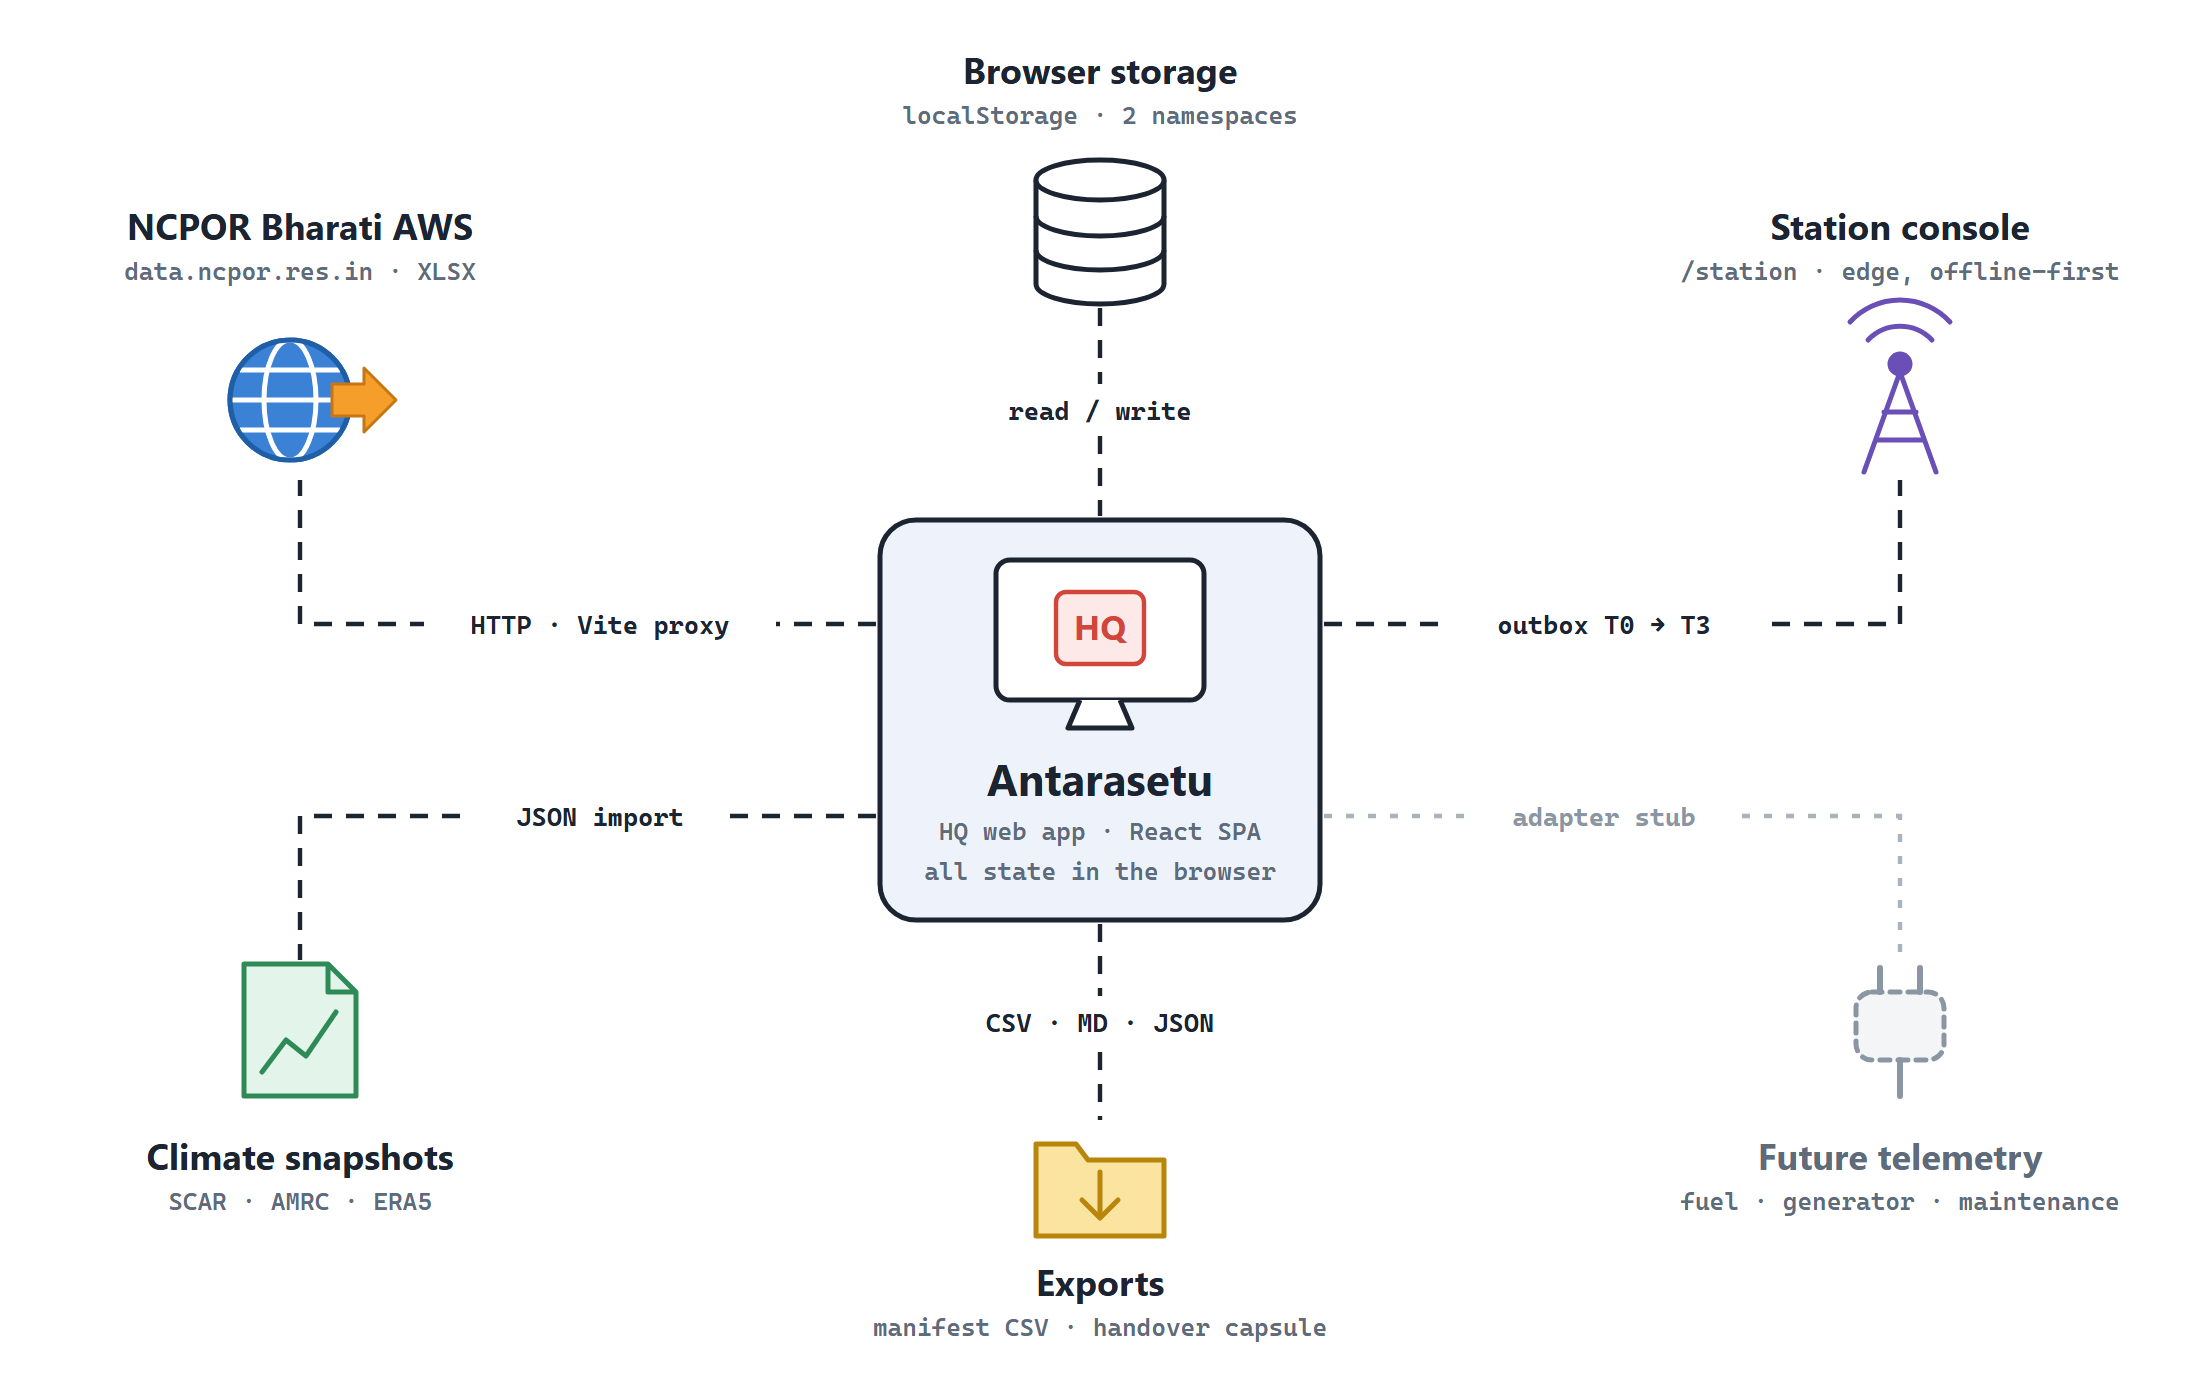
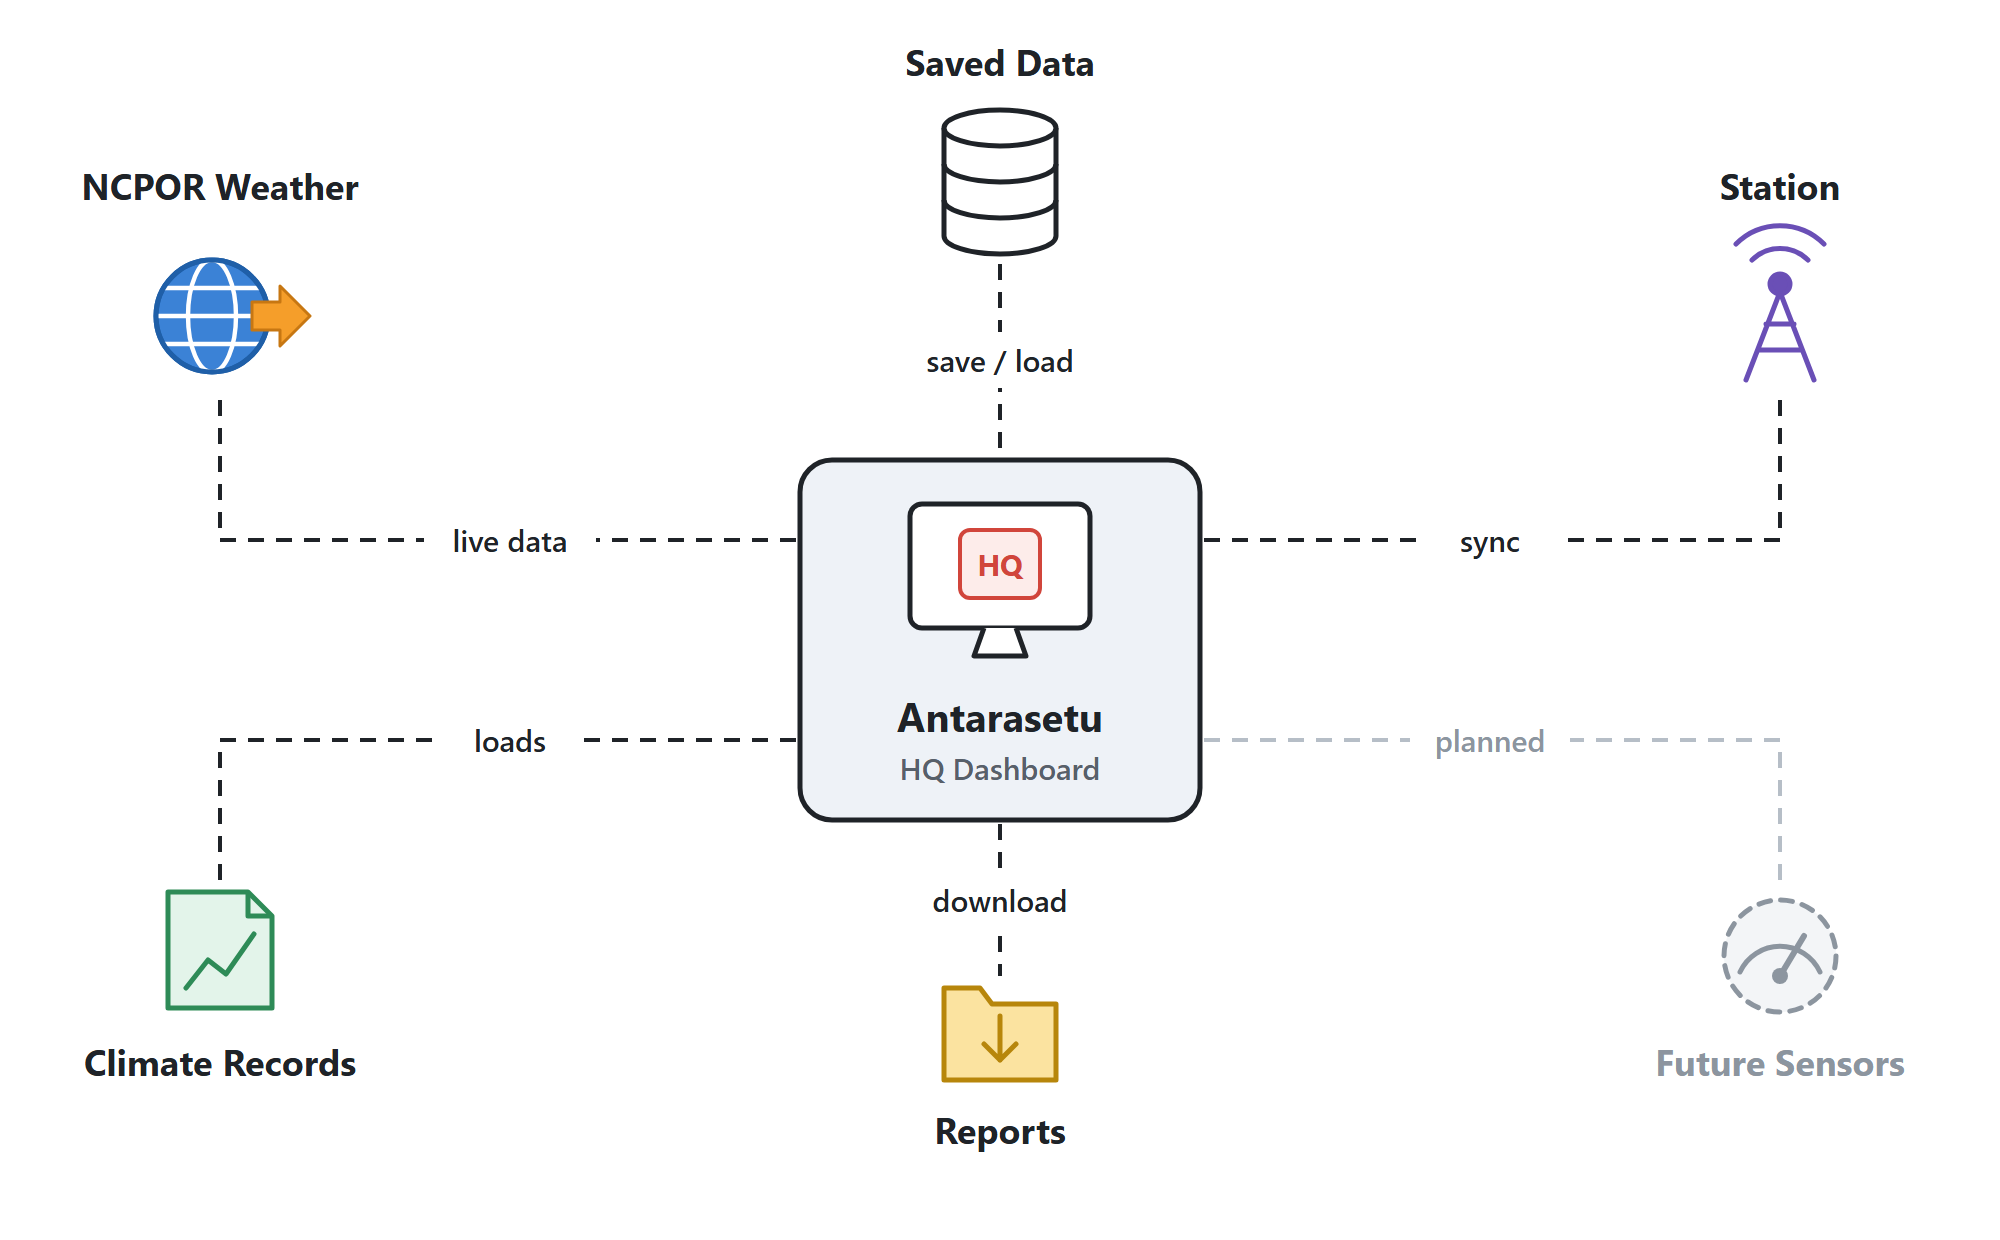
docs: simplify integration map to plain labels
Redraws integrations.svg/png in a cleaner, symmetric layout with short
plain-English names and one-word connection labels, and updates the
caption in ARCHITECTURE.md to match.

diff --git a/docs/architecture/ARCHITECTURE.md b/docs/architecture/ARCHITECTURE.md
@@ -30,7 +30,7 @@ The platform sits at the centre; the eight capabilities around it are the produc
 
 *Vector version: [integrations.svg](integrations.svg)*
 
-Every system the app touches, with how it connects. The only live external feed is NCPOR, reached through a dev-only Vite proxy because the endpoint sends no CORS header. The fuel, generator and maintenance adapters exist but return `null`.
+Everything the HQ dashboard connects to. **Saved Data** is the browser's own storage. **NCPOR Weather** is the one live outside feed. **Climate Records** are saved weather files. **Station** is the station console, which syncs when the link is up. **Reports** are the files you can download. **Future Sensors** (fuel, generator, maintenance) are planned but not connected yet.
 
 ---
 
